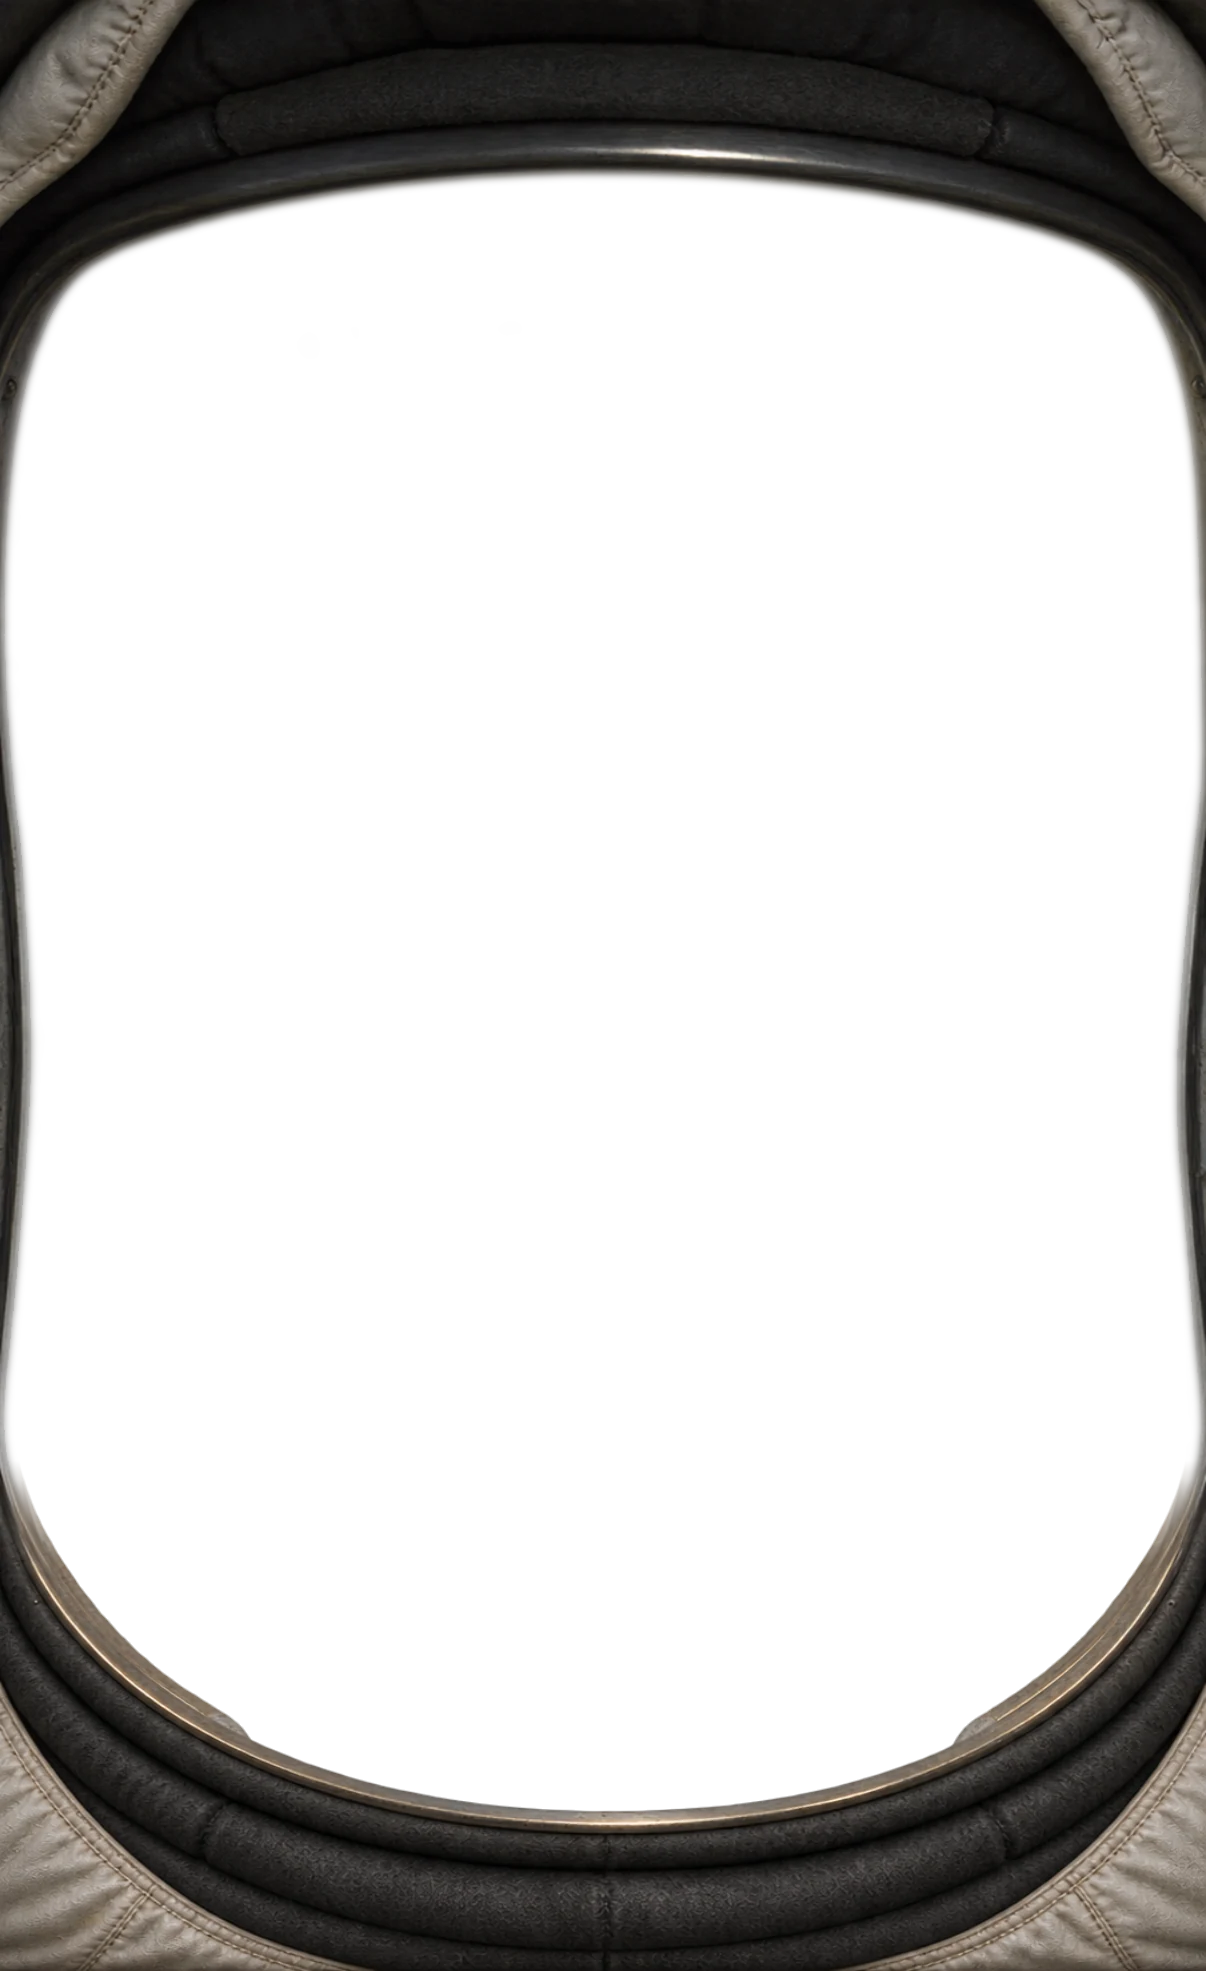
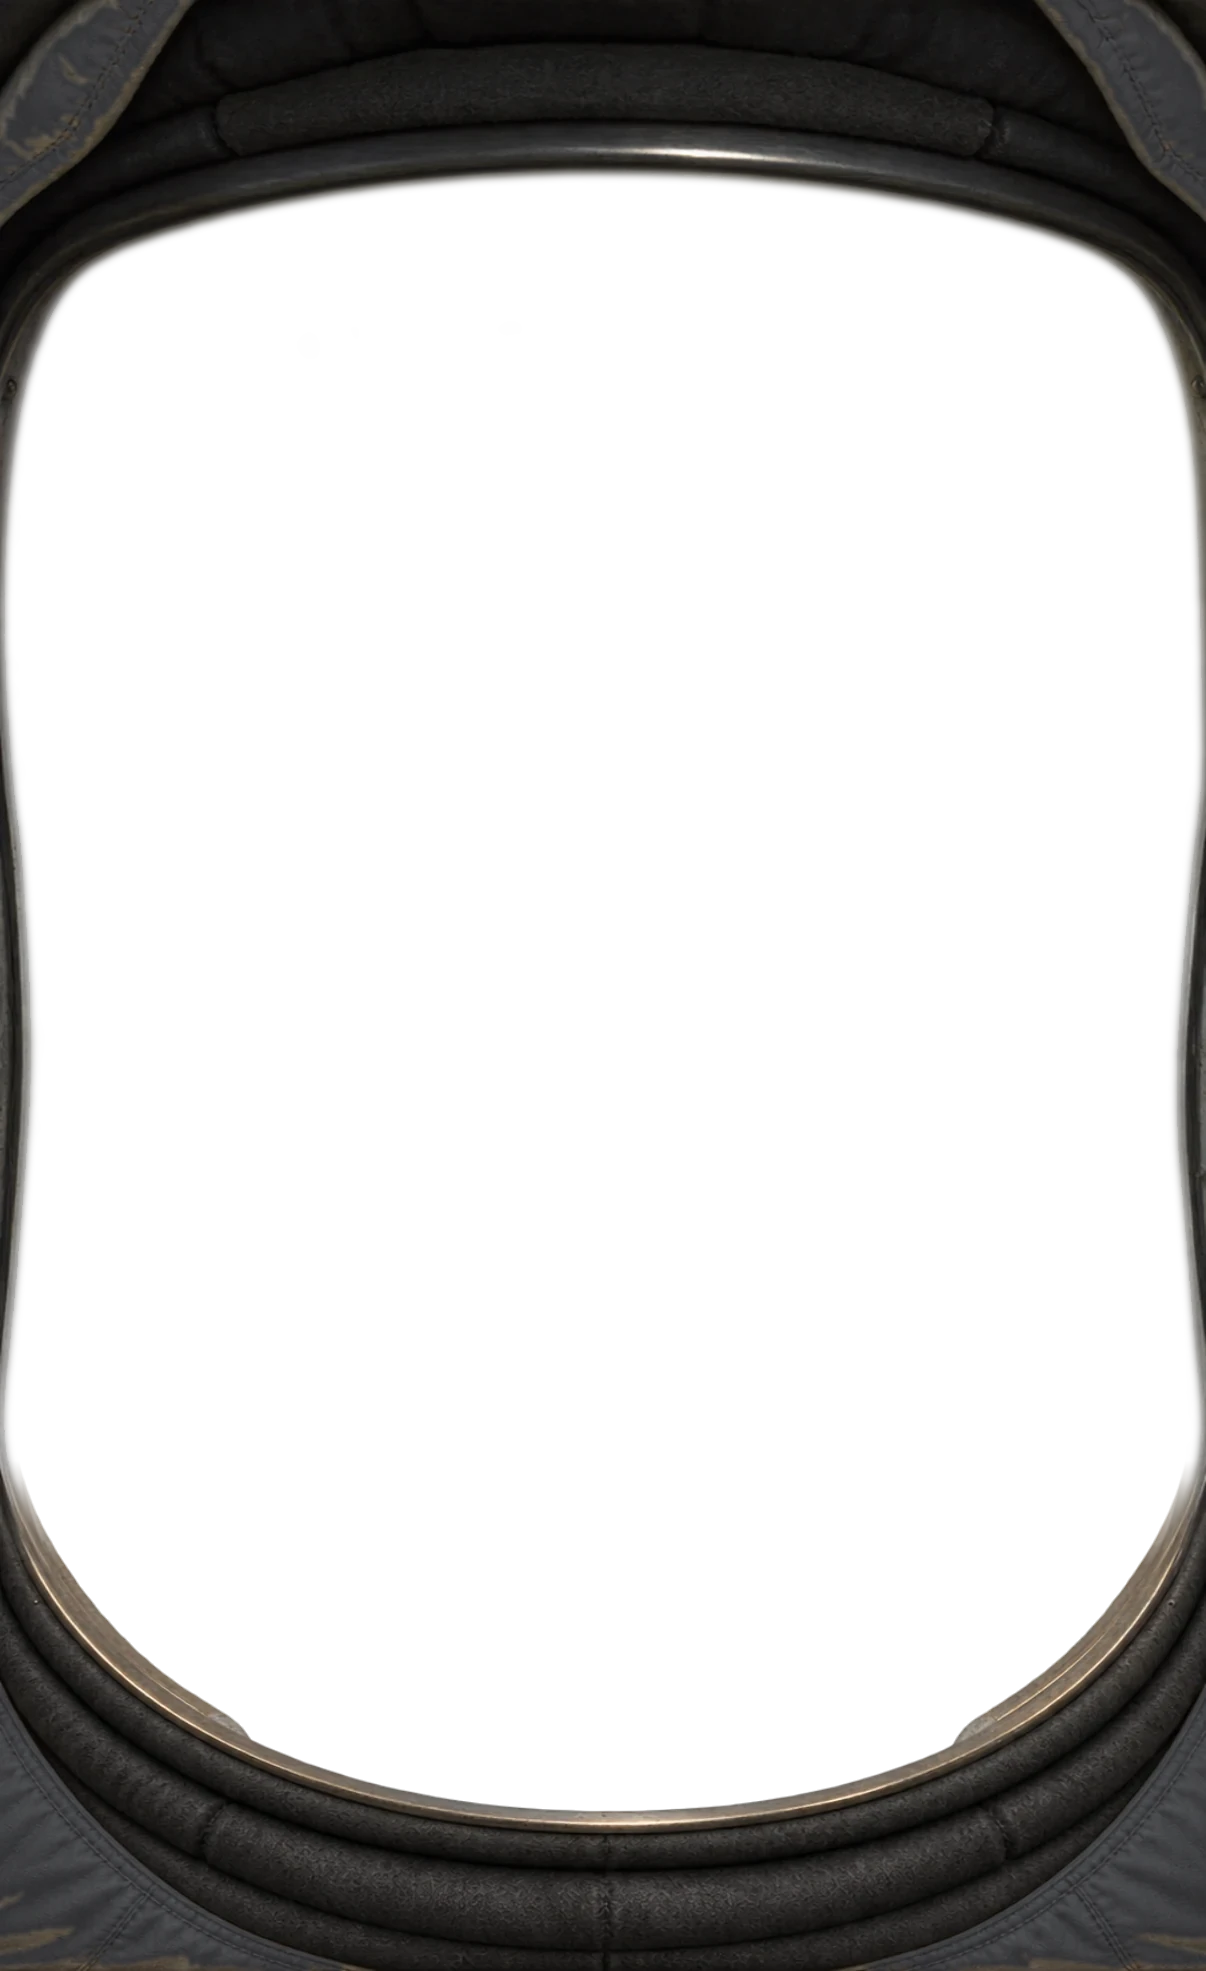
v1.0.30: McCandless's helmet rim with dark grey cloth in its four corners (was beige; the gold ring and the stitching kept), and the music key beside the moon with sound next to it (the user: "이 부분을 짙은회색으로 해", "소리 / 음악 아이콘 위치 바꿔", "오른쪽으로 만들어")

diff --git a/style.css b/style.css
@@ -5156,7 +5156,7 @@ html.gaze #gazeButton {
 
 html.gaze #gazeMusic {
   display:inline-flex;
-  right:calc(2 * var(--step, 64px));
+  right:var(--step, 64px);
   opacity:.4;
   border-color:var(--gold);
   animation:gazeMusicIn .6s ease both;
@@ -5217,6 +5217,11 @@ html.gaze #gazeCaption.has {
 
 html.gaze #gazeCaption.has {
   right:calc(4 * var(--step, 64px));
+}
+
+/* Music beside the moon, sound effects next to it (the user, 2026-11-20: "소리 / 음악 아이콘 위치 바꿔"). */
+html.gaze #gazeSound {
+  right:calc(2 * var(--step, 64px));
 }
 
 #gazeSound::before,

diff --git a/docs/Space-Oddity-상세기획서.md b/docs/Space-Oddity-상세기획서.md
@@ -662,6 +662,7 @@ v0.1.37, 눈으로 보지 못했던 것을 다시 찍어 보고 고친 것(`.pla
 - 2026-11-02에 우주멍 화면 왼쪽 위에 제목 로고를 작게(92px 폭) 넣었다(v0.4.61). 사용자 말: "우주멍 모드에서는 화면 상단 왼쪽에 조그맣게 로고 넣어줘".
 - 2026-11-18에 우주멍 시계, 잠들기 타이머, 배경화면 저장을 넣었다(v1.0.8). 우주멍 시계는 설정에서 켜며, 우주멍 동안 화면 위쪽에 시각과 날짜를 띄우고 화면 꺼짐을 막는다(Wake Lock). 시계는 1분마다 12픽셀 안에서 자리를 옮긴다. 잠들기는 배경 음악 칸의 단추로 15, 30, 60분을 고르며, 시간이 되면 음악과 화면이 60초에 걸쳐 잦아들고 어두워진다(검은 막 92%). 화면을 만지면 돌아온다. 배경화면은 사진 모드의 단추로, 보통 사진이 화면의 1.6배까지만 그리는 것과 달리 기기 해상도(3배까지, 한 변 4096픽셀까지)로 한 장을 그린다. "시계 자리 보기"는 잠금화면 시계가 덮는 자리를 점선으로 보인다. 시계 글씨는 세 모양(가는 글씨, 할머니 손글씨, 별빛)을 나란히 보인 뒤 사용자가 고른 할머니 수첩 손글씨(크림색)다. 코드는 GPT(Codex)가 짰고 번역과 검토는 Claude가 했다. 사용자 말: "5,6,7 해보자", "코딩은 gpt 시켜도 되지?", "나".
 - 2026-11-18에 우주멍 시계를 화면 왼쪽 위, 제목 바로 아래로 옮기고 시각과 날짜 줄을 각각 제목 폭(92픽셀)에 맞춰 글씨 크기를 정하게 했다. 우주멍 동안 우주멍 단추 옆에 배경 음악 켜기/끄기 단추를 둔다(v1.0.9). 사용자 말: "시간과 날짜를 왼쪽 상단, 제목 바로 아래로 옮기고, 폰트도 적당히 줄여서 폭을 맞춰", "우주멍에서는 배경음악 ON/OFF 버튼을 우주멍 버튼 옆에 그려줘". 날짜는 줄임 꼴로 쓴다: "11월 18일 (수)", "Wed, Nov 18", "11月18日(水)", "11月18日周三"(v1.0.10, 사용자 말: "줄임말로 쓰지").
+- 2026-11-20에 매캔들리스 코스의 헬멧 테두리 그림에서 네 귀퉁이의 베이지색 천을 짙은 회색으로 바꿨다(v1.0.30). 밝고 채도가 낮은 화소만 골라 밝기의 0.32배로 낮추고, 창 둘레 60픽셀 안의 금빛 테두리는 건드리지 않아 천의 주름과 바늘땀이 남는다. 아래쪽만 바꾼 안과 견주어 사용자가 네 귀퉁이 모두를 골랐다. 우주멍 아래 줄의 소리와 음악 단추 자리도 맞바꿔, 이제 달 바로 옆이 음악, 그 옆이 소리다. 사용자 말: "이 부분을 짙은회색으로 해", "소리 / 음악 아이콘 위치 바꿔", "오른쪽으로 만들어".
 - 2026-11-20에 매캔들리스 코스에서 헬멧 안으로 들어가는 대목을 부드럽게 했다(v1.0.29). "이제 그의 헬멧 안으로 들어갑니다."는 -8초(얼굴 사진과 같은 때)에서 -14초로 당겨, 밖에서 그를 보는 동안 먼저 읽힌다. 얼굴 사진은 이 코스에서만 2.5초에 걸쳐 나타나고 사라지며(사진마다 `fadeS`, 다른 코스는 1.2초), 0초를 넘겨 +2.5초까지 이어져 헬멧 안 화면이 이미 그의 눈일 때 걷힌다(전에는 걷히는 동안 밖에서 본 그가 헬멧 테두리 안에 비쳤다). 헬멧 테두리는 사진이 화면을 다 덮은 -4초에 바뀐다. 사용자 말: "이제 그의 헬멧 안으로 들어갑니다.. 헬멧 화면이 나오기 전에 이 말이 나오고, 화면 전환을 부드럽게", "만들어".
 - 2026-11-20에 디스커버리 코스의 창틀에서 Sound, Music, Caption 스위치판을 지우고(창틀이 좌우 거의 같아 오른쪽의 같은 자리를 뒤집어 메우고 가장자리 22픽셀을 섞었다), 로봇팔에 원근감을 주었다(v1.0.28). 아폴로와 이글 창틀의 스위치는 그대로다. 팔의 어깨를 화면 아래 바로 밖에 두어 팔이 왼쪽 아래 창으로 굵게 들어와 허블 쪽으로 가늘어진다(402 폭에서 30 → 10픽셀). 어깨를 더 가까이 둘 수는 없다: 눈은 10km(near plane) 안을 그리지 않아 팔이 잘린다. 그래서 어깨는 허블 거리의 3분의 2, 또는 10km의 1.2배 가운데 먼 쪽에 두고, 나머지 가까움은 팔 원통을 어깨 쪽이 굵게(위팔 2.4 → 1.5, 아래팔 1.5 → 1) 깎아 낸다. 놓은 뒤 팔은 왼쪽 아래로 접혀 사라진다. 사용자 말: "이거 없애자"(스위치판), "디스커버리만", "로봇팔 폭이 근거리와 원거리가 같네.. (원근감이 없음)", "만들어".
 - 2026-11-20에 디스커버리 코스에서 허블을 붙든 로봇팔이 떨리던 것을 고쳤다(v1.0.26). 팔은 눈(카메라)을 기준으로 그리는데, 한 장면마다 우주선을 먼저 놓고 눈을 나중에 돌려 팔이 늘 한 장면 늦었다. 땅을 실제 빠르기(50배)로 돌리자 눈이 빨리 돌아 그 어긋남이 떨림으로 보였다. 이제 눈을 먼저 돌리고(`src/render/world.js`), 팔을 그리기 전에 눈의 방향을 새로 읽는다(`src/render/craft.js` armDraw). 그래도 떨었다(v1.0.27). 매 장면을 재어 보니 팔과 허블은 함께 붙어 있고, 둘이 함께 화면에서 평균 2픽셀, 장면이 늦게 오면 18픽셀까지 튀었다. 코스가 눈을 허블 곁에 놓은 뒤, 지구 가까이 날 때 땅과 함께 돌려 주는 단계(`main.js`, NEAR_CARRY)가 그 장면 동안 지구가 돈 만큼 눈을 또 옮겼다. 50배 빠르기에서는 장면마다 200m쯤이다. 이제 그 단계는 코스를 나는 동안 쉬고, 허블과 팔은 장면마다 0.03픽셀 안에서 움직인다. 사용자 말: "허블 놓아주는데, 로봇팔이 사시나무 떨듯이 떨어", "고쳐", "그래도 떨어".
